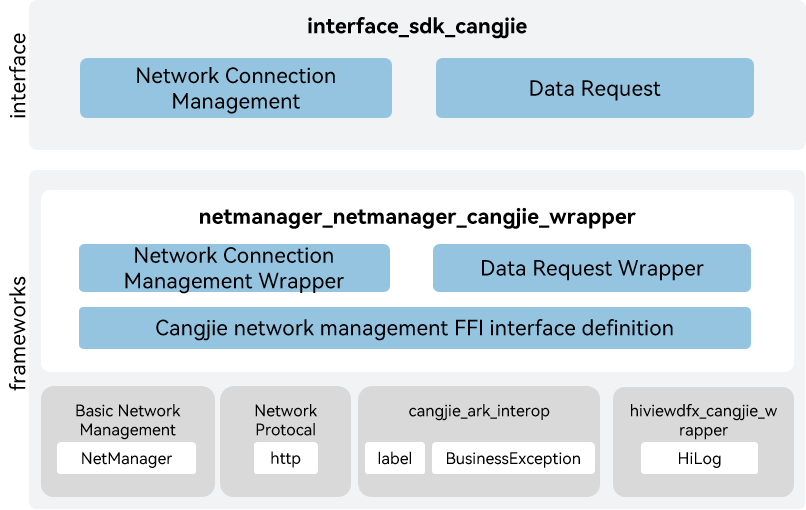
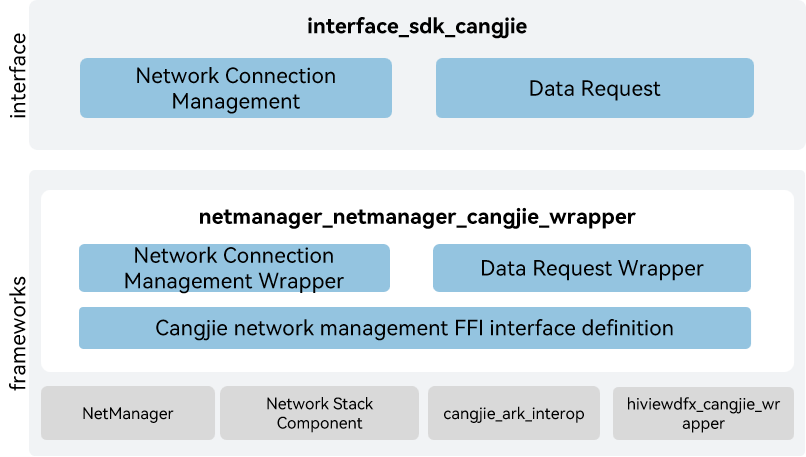
update README

diff --git a/README.md b/README.md
@@ -2,7 +2,7 @@
 
 ## Introduction
 
-The netmanager_cangjie_wrapper is a Cangjie API encapsulated on OpenHarmony based on the capabilities of the net management Subsystem. As a mandatory component for device networking, the network management subsystem implements unified connection management, traffic management, policy management, network sharing of different types of networks, and provides network protocol stack capabilities. An application can call APIs to obtain connection information of a data network, query and subscribe to connection status, network traffic data, and network policy, share the network, and transfer data using a network protocol stack. The netmanager_cangjie_wrapper includes network connection management and services related to data requests. The network management cangjie interface currently under development only supports standard devices.
+As a mandatory component for device networking, the network management subsystem implements unified connection management, traffic management, policy management, network sharing of different types of networks, and provides network protocol stack capabilities. An application can call APIs to obtain connection information of a data network, query and subscribe to connection status, network traffic data, and network policy, share the network, and transfer data using a network protocol stack. The netmanager_cangjie_wrapper includes network connection management and services related to data requests. The network management cangjie interface currently under development only supports standard devices.
 
 ## System Architecture
 
@@ -12,11 +12,21 @@ The netmanager_cangjie_wrapper is a Cangjie API encapsulated on OpenHarmony base
 
 As shown in the architecture diagram:
 
+Interface:
+
 - Network Connection Management: Provides network management capabilities.
 - Data Request: Provides HTTP data request capabilities.
+
+Framework:
+
+- Network Connection Management Wrapper: Provides Implementation encapsulation of Cangjie Network Connection Management, providing Network Connection Management capabilities.
+- Data Request Wrapper: Provides Implementation encapsulation of Cangjie Data Request, providing Data Request capabilities.
 - Cangjie network management FFI interface definition: Responsible for defining the C Language interoperability Cangjie interface, which is used to realize the Cangjie network management capabilities.
-- Basic Network Management: Responsible for providing the basic functions of network management, and providing the package C Language interface to Cangjie for interoperability.
-- Network Protocal Stacks: Responsible for providing the basic functions of network protocal stacks, and providing the package C Language interface to Cangjie for interoperability.
+
+- Explanation of Dependencies in the Architecture Diagram:
+
+- NetManager: Responsible for providing the basic functions of network management, and providing the package C Language interface to Cangjie for interoperability.
+- Network Stack Component: Responsible for providing the basic functions of network protocal stacks, and providing the package C Language interface to Cangjie for interoperability.
 - cangjie_ark_interop: Responsible for providing Cangjie APILevel class definitions, which are used to annotate APIs, as well as providing the definition of BusinessException class that is thrown to users.
 - hiviewdfx_cangjie_wrapper: Responsible for providing logging interfaces, which are used to print logs at key points in the execution path.
 
@@ -45,6 +55,14 @@ The netmanager_cangjie_wrapper provides the following capabilities:
 - Network Connection Management.
 - Data Request.
 
+For netmanager APIs, please refer to:
+1. [Network Connection Management](https://gitcode.com/openharmony-sig/arkcompiler_cangjie_ark_interop/blob/master/doc/API_Reference/source_en/apis/NetworkKit/cj-apis-net-connection.md)
+2. [Data Request](https://gitcode.com/openharmony-sig/arkcompiler_cangjie_ark_interop/blob/master/doc/API_Reference/source_en/apis/NetworkKit/cj-apis-net-http.md)
+
+For relevation guidance, please refer to [Network Development Guide](https://gitcode.com/openharmony-sig/arkcompiler_cangjie_ark_interop/blob/master/doc/Dev_Guide/source_en/network)
+
+## Constraints
+
 Compared to ArkTS, the following features are currently not supported:
 
 - Ethernet Connection Management.
@@ -61,19 +79,13 @@ Compared to ArkTS, the following features are currently not supported:
 - Extensible Authentication.
 - Enhanced VPN Management.
 
-For netmanager APIs, please refer to:
-1. [Network Connection Management](https://gitcode.com/openharmony-sig/arkcompiler_cangjie_ark_interop/blob/master/doc/API_Reference/source_en/apis/NetworkKit/cj-apis-net-connection.md)
-2. [Data Request](https://gitcode.com/openharmony-sig/arkcompiler_cangjie_ark_interop/blob/master/doc/API_Reference/source_en/apis/NetworkKit/cj-apis-net-http.md)
-
-For relevation guidance, please refer to [Network Development Guide](https://gitcode.com/openharmony-sig/arkcompiler_cangjie_ark_interop/blob/master/doc/Dev_Guide/source_en/network)
-
 ## Code Contribution
 
 Developers are welcome to contribute code, documentation, etc. For specific contribution processes and methods, please refer to [Code Contribution](https://gitcode.com/openharmony/docs/blob/master/en/contribute/code-contribution.md).
 
 ## Repositories Involved
 
-[ark_compiler_cangjie_ark_interop](https://gitcode.com/openharmony-sig/arkcompiler_cangjie_ark_interop)
+[arkcompiler_cangjie_ark_interop](https://gitcode.com/openharmony-sig/arkcompiler_cangjie_ark_interop)
 
 [communication_netmanager_base](https://gitcode.com/openharmony/communication_netmanager_base)
 

diff --git a/README_zh.md b/README_zh.md
@@ -1,8 +1,8 @@
-# 网络管理仓颉接口
+# 网络管理仓颉封装
 
 ## 简介
 
-网络管理仓颉接口是在OpenHarmony上基于网络管理子系统能力之上封装的仓颉API。网络管理子系统，作为设备联网的必备组件，提供了对不同类型网络连接的统一管理、流量管理、策略管理、网络共享，并提供了网络协议栈能力。应用可以通过调用API来获取数据网络的连接信息，查询和订阅数据网络的连接状态，网络流量数据，网络策略以及网络共享等，并可通过网络协议栈进行数据传输。网络管理仓颉接口包含了网络连接管理、数据请求相关业务。当前开发的网络管理仓颉接口仅支持standard设备。
+网络管理子系统，作为设备联网的必备组件，提供了对不同类型网络连接的统一管理、流量管理、策略管理、网络共享，并提供了网络协议栈能力。应用可以通过调用API来获取数据网络的连接信息，查询和订阅数据网络的连接状态，网络流量数据，网络策略以及网络共享等，并可通过网络协议栈进行数据传输。网络管理仓颉接口包含了网络连接管理、数据请求相关业务。当前开发的网络管理仓颉接口仅支持standard设备。
 
 ## 系统架构
 
@@ -12,11 +12,21 @@
 
 如架构图所示：
 
+接口层：
+
 - 网络连接管理：提供管理网络能力。
 - 数据请求：提供HTTP数据请求能力。
+
+框架层：
+
+- 网络连接管理封装：仓颉网络连接管理的实现封装，提供网络连接管理能力。
+- 数据请求封装：仓颉数据请求的实现封装，提供数据请求能力。
 - 仓颉网络管理FFI接口定义：定义C语言互操作仓颉接口，用于实现仓颉网络管理能力。
-- 网络管理基础：提供基础网络连接管理能力，封装C语言接口提供给仓颉进行互操作。
-- 网络协议栈：提供基础的网络协议栈，封装C语言接口提供给仓颉进行互操作。
+
+架构图中的依赖部件引入说明：
+
+- Net Manager：提供基础网络连接管理能力，封装C语言接口提供给仓颉进行互操作。
+- Net Stack：提供基础的网络协议栈，封装C语言接口提供给仓颉进行互操作。
 - cangjie_ark_interop：负责提供仓颉注解类定义，用于对API进行标注，以及提供抛向用户的BusinessException异常类定义。
 - hiviewdfx_cangjie_wrapper：负责提供日志接口，用于在关键路径处打印日志。
 
@@ -40,10 +50,18 @@ foundation/communication/netmanager_cangjie_wrapper
 
 ## 使用说明
 
-如架构图所示，网络管理仓颉接口提供了以下功能：
+当前网络管理仓颉接口提供了以下功能：
 
 - 网络连接管理。
 - 数据请求。
+
+网络管理相关API请参见：
+1. [网络连接管理](https://gitcode.com/openharmony-sig/arkcompiler_cangjie_ark_interop/blob/master/doc/API_Reference/source_zh_cn/apis/NetworkKit/cj-apis-net-connection.md)
+2. [数据请求](https://gitcode.com/openharmony-sig/arkcompiler_cangjie_ark_interop/blob/master/doc/API_Reference/source_zh_cn/apis/NetworkKit/cj-apis-net-http.md)
+
+相关指导请参见[网络管理开发指南](https://gitcode.com/openharmony-sig/arkcompiler_cangjie_ark_interop/blob/master/doc/Dev_Guide/source_zh_cn/network)
+
+## 约束
 
 与ArkTS提供的API能力相比，暂不支持以下功能：
 
@@ -55,17 +73,11 @@ foundation/communication/netmanager_cangjie_wrapper
 - 网络共享管理。
 - VPN增强管理。
 - VPN管理。
-- WebSocket连接。WebSocket 
+- WebSocket连接。
 - 网络防火墙。
 - 网络安全。
 - 扩展认证。
 - 三方VPN能力。
-
-网络管理相关API请参见：
-1. [网络连接管理](https://gitcode.com/openharmony-sig/arkcompiler_cangjie_ark_interop/blob/master/doc/API_Reference/source_zh_cn/apis/NetworkKit/cj-apis-net-connection.md)
-2. [数据请求](https://gitcode.com/openharmony-sig/arkcompiler_cangjie_ark_interop/blob/master/doc/API_Reference/source_zh_cn/apis/NetworkKit/cj-apis-net-http.md)
-
-相关指导请参见[网络管理开发指南](https://gitcode.com/openharmony-sig/arkcompiler_cangjie_ark_interop/blob/master/doc/Dev_Guide/source_zh_cn/network)
 
 ## 参与贡献
 
@@ -73,7 +85,7 @@ foundation/communication/netmanager_cangjie_wrapper
 
 ## 相关仓
 
-[ark_compiler_cangjie_ark_interop](https://gitcode.com/openharmony-sig/arkcompiler_cangjie_ark_interop)
+[arkcompiler_cangjie_ark_interop](https://gitcode.com/openharmony-sig/arkcompiler_cangjie_ark_interop)
 
 [communication_netmanager_base](https://gitcode.com/openharmony/communication_netmanager_base)
 
